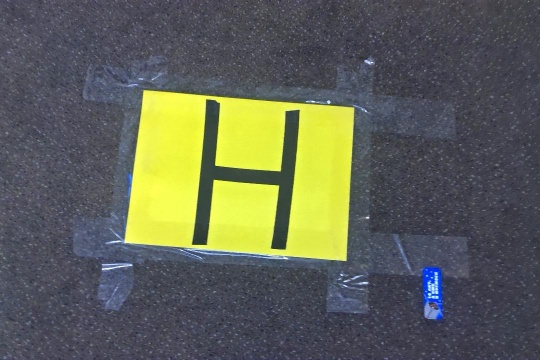
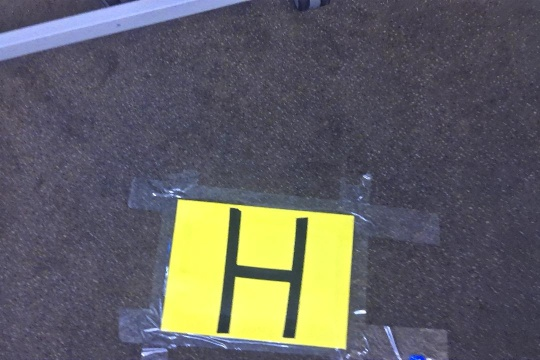
test(thermal): add sample thermal frames and update result viewer

diff --git a/frontend/src/pages/ResultPage/ResultPage.jsx b/frontend/src/pages/ResultPage/ResultPage.jsx
@@ -16,7 +16,7 @@ export default function ResultPage() {
   
   const [projects, setProjects] = useState([]);
   const [activeProject, setActiveProject] = useState(null);
-  const [images, setImages] = useState({ projectId: null, ai_input: [], ai_output: [], metashape_input: [], metashape_output: [] });
+  const [images, setImages] = useState({ projectId: null, ai_input: [], ai_output: [], metashape_input: [], metashape_output: [], thermal_input: [] });
   const [activeGroup, setActiveGroup] = useState('ai');
   const [showAIOutput, setShowAIOutput] = useState(false);
   const [isCreatingProject, setIsCreatingProject] = useState(false);
@@ -108,7 +108,7 @@ export default function ResultPage() {
 
   useEffect(() => {
     if (activeProject?.id) { 
-      setImages({ projectId: null, ai_input: [], ai_output: [], metashape_input: [], metashape_project: [], metashape_ai_output: [] });
+      setImages({ projectId: null, ai_input: [], ai_output: [], metashape_input: [], metashape_project: [], metashape_ai_output: [], thermal_input: [] });
       setObjectUrls(prev => {
           Object.values(prev).forEach(url => {
               try { URL.revokeObjectURL(url); } catch (e) {}
@@ -280,7 +280,7 @@ export default function ResultPage() {
     const currentProjectId = activeProject.id;
     
     const missingKeys = [];
-    for (const group of ['ai_input', 'ai_output', 'metashape_input', 'metashape_project', 'metashape_ai_output']) {
+    for (const group of ['ai_input', 'ai_output', 'metashape_input', 'metashape_project', 'metashape_ai_output', 'thermal_input']) {
         for (const img of images[group] || []) {
             const key = `${currentProjectId}_${group}_${img}`;
             if (!objectUrls[key]) {
@@ -312,8 +312,8 @@ export default function ResultPage() {
     fetchMissing();
   }, [images, activeProject?.id, objectUrls]);
 
-  const folderKey = activeGroup === 'ai' ? 'ai_input' : (activeGroup === 'metashape' ? 'metashape_input' : 'metashape_project');
-  const currentGroupImages = activeGroup === 'ai' ? images.ai_input : (activeGroup === 'metashape' ? images.metashape_input : (images.metashape_project || []).filter(img => img.toLowerCase().endsWith('.glb') || img.toLowerCase().endsWith('.gltf')));
+  const folderKey = activeGroup === 'ai' ? 'ai_input' : (activeGroup === 'thermal' ? 'thermal_input' : (activeGroup === 'metashape' ? 'metashape_input' : 'metashape_project'));
+  const currentGroupImages = activeGroup === 'ai' ? images.ai_input : (activeGroup === 'thermal' ? images.thermal_input : (activeGroup === 'metashape' ? images.metashape_input : (images.metashape_project || []).filter(img => img.toLowerCase().endsWith('.glb') || img.toLowerCase().endsWith('.gltf'))));
 
   const isImageProcessing = (img) => {
       if (processingImages.has(img)) return true;
@@ -429,6 +429,9 @@ export default function ResultPage() {
             <button className={`tab-btn ${activeGroup === 'ai' ? 'active' : ''}`} onClick={() => setActiveGroup('ai')}>
               <ImageIcon size={18} /> Фото для ИИ
             </button>
+            <button className={`tab-btn ${activeGroup === 'thermal' ? 'active' : ''}`} onClick={() => setActiveGroup('thermal')}>
+              <ImageIcon size={18} /> Тепловизор
+            </button>
             <button className={`tab-btn ${activeGroup === 'metashape' ? 'active' : ''}`} onClick={() => setActiveGroup('metashape')}>
               <Box size={18} /> Исходники Metashape
             </button>
@@ -524,7 +527,7 @@ export default function ResultPage() {
                     currentIndex={fullscreenImageIndex}
                     onNavigate={(dir) => {
                         let next = fullscreenImageIndex + dir;
-                        if (next < currentGroupImages.length) {
+                        if (next >= 0 && next < currentGroupImages.length) {
                           setFullscreenImageIndex(next);
                         }
                     }}

diff --git a/backend/src/api/projects.py b/backend/src/api/projects.py
@@ -170,6 +170,7 @@ def list_images(project_id: int, db: Session = Depends(get_db), current_user: Us
         "metashape_input": _get_images(os.path.join(base, "metashape_input")),
         "metashape_project": _get_images(os.path.join(base, "metashape_project")),
         "metashape_ai_output": _get_images(os.path.join(base, "metashape_ai_output")),
+        "thermal_input": _get_images(os.path.join(base, "thermal_input")),
         "processing_ai": ai_proc,
         "processing_metashape": meta_proc
     }
@@ -180,7 +181,7 @@ def get_image(project_id: int, group: str, filename: str, db: Session = Depends(
     if not project:
         raise HTTPException(status_code=404, detail="Project not found")
         
-    if group not in ["ai_input", "ai_output", "metashape_input", "metashape_project", "metashape_ai_output"]:
+    if group not in ["ai_input", "ai_output", "metashape_input", "metashape_project", "metashape_ai_output", "thermal_input"]:
         raise HTTPException(status_code=400, detail="Invalid group")
         
     file_path = os.path.join(PROJECTS_ROOT, str(project.id), group, filename)
@@ -191,7 +192,7 @@ def get_image(project_id: int, group: str, filename: str, db: Session = Depends(
 
 @router.delete("/{project_id}/images/{group}/{filename}")
 def delete_image(project_id: int, group: str, filename: str, db: Session = Depends(get_db), current_user: User = Depends(get_current_user)):
-    if group not in ["ai_input", "ai_output", "metashape_input", "metashape_project", "metashape_ai_output"]:
+    if group not in ["ai_input", "ai_output", "metashape_input", "metashape_project", "metashape_ai_output", "thermal_input"]:
         raise HTTPException(status_code=400, detail="Invalid group")
     project = db.query(Project).filter(Project.id == project_id, Project.user_id == current_user.id).first()
     if not project:
